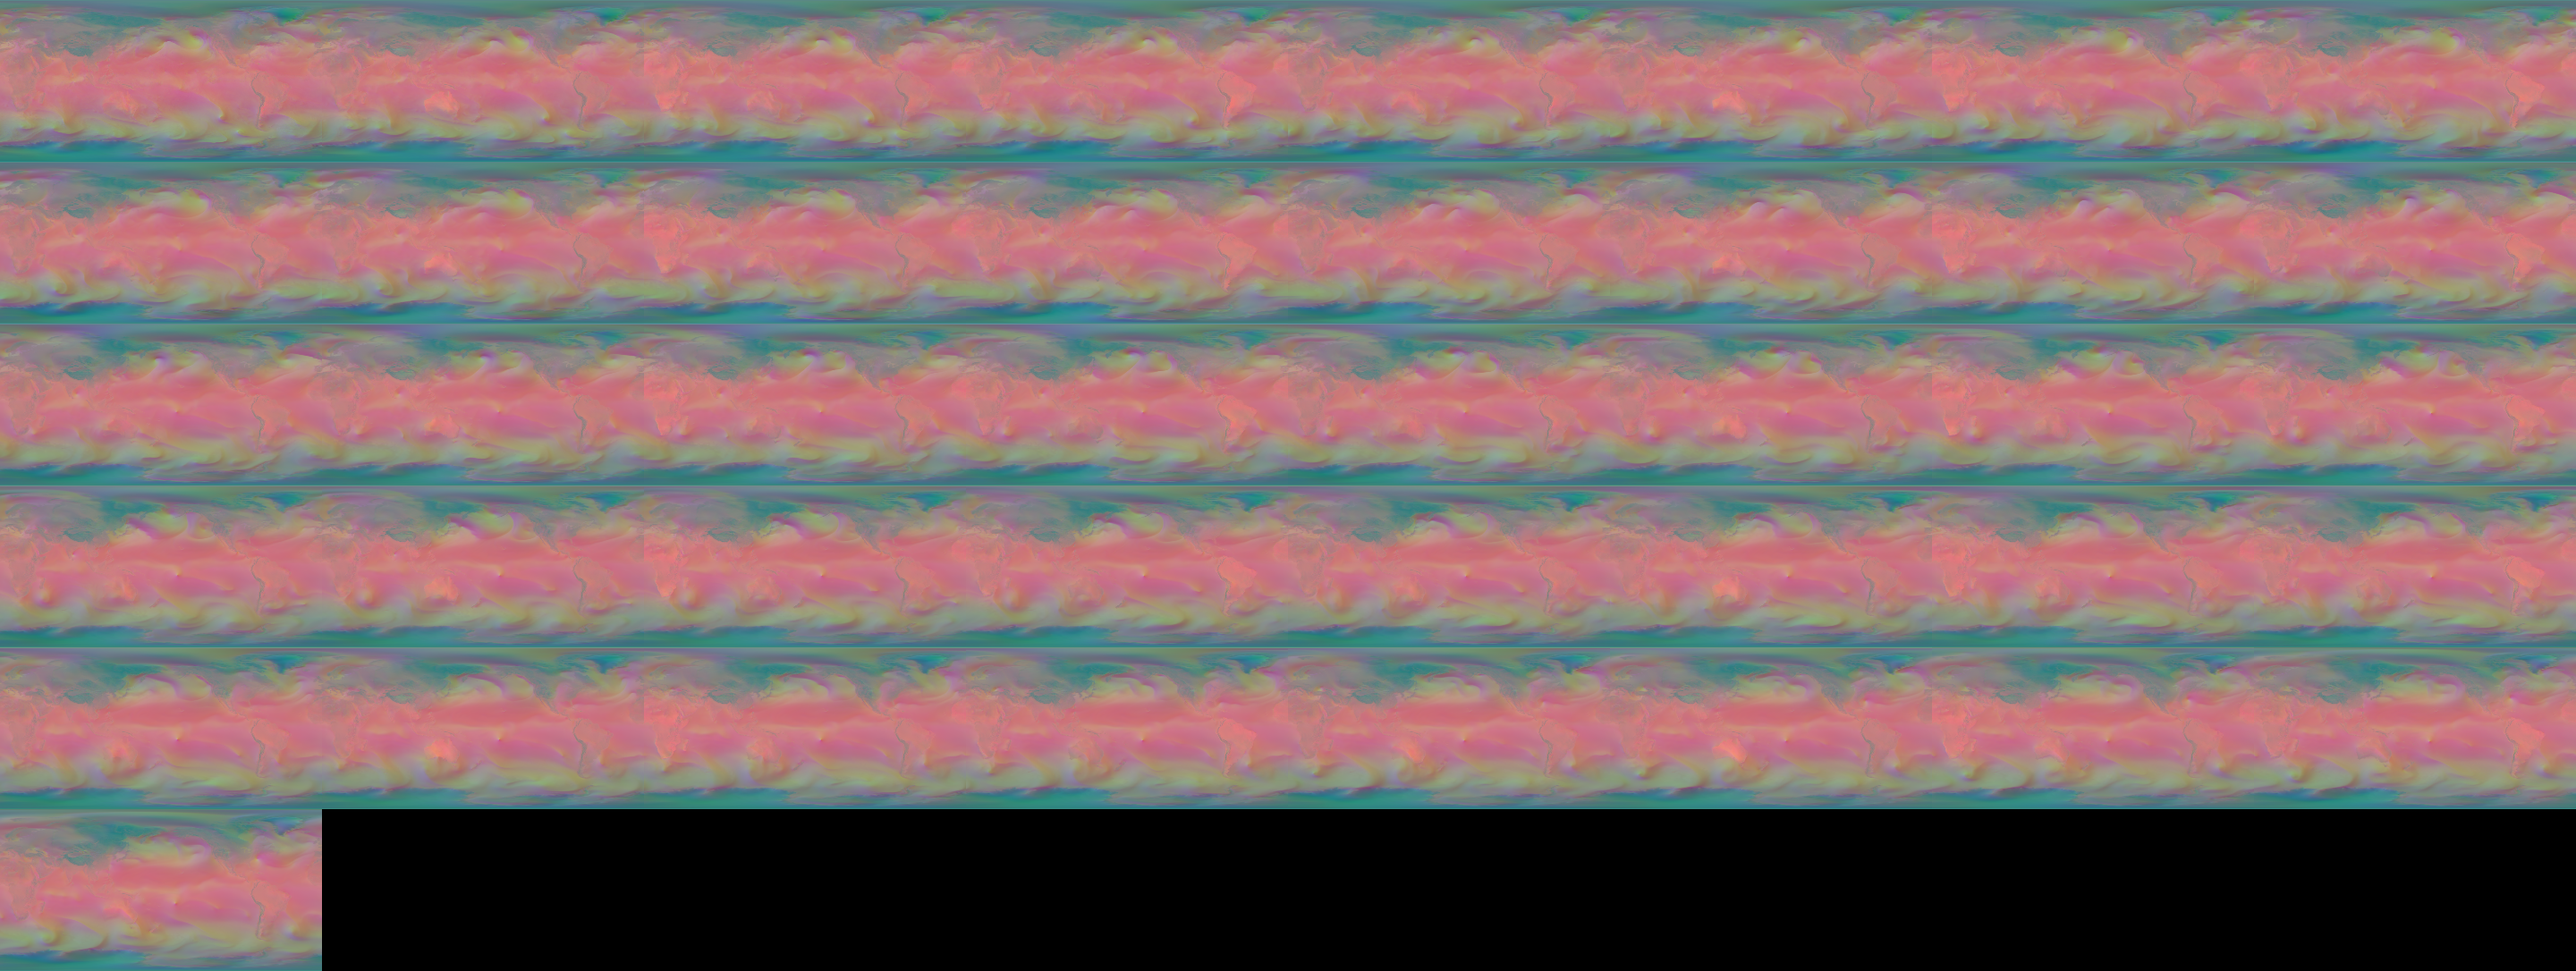
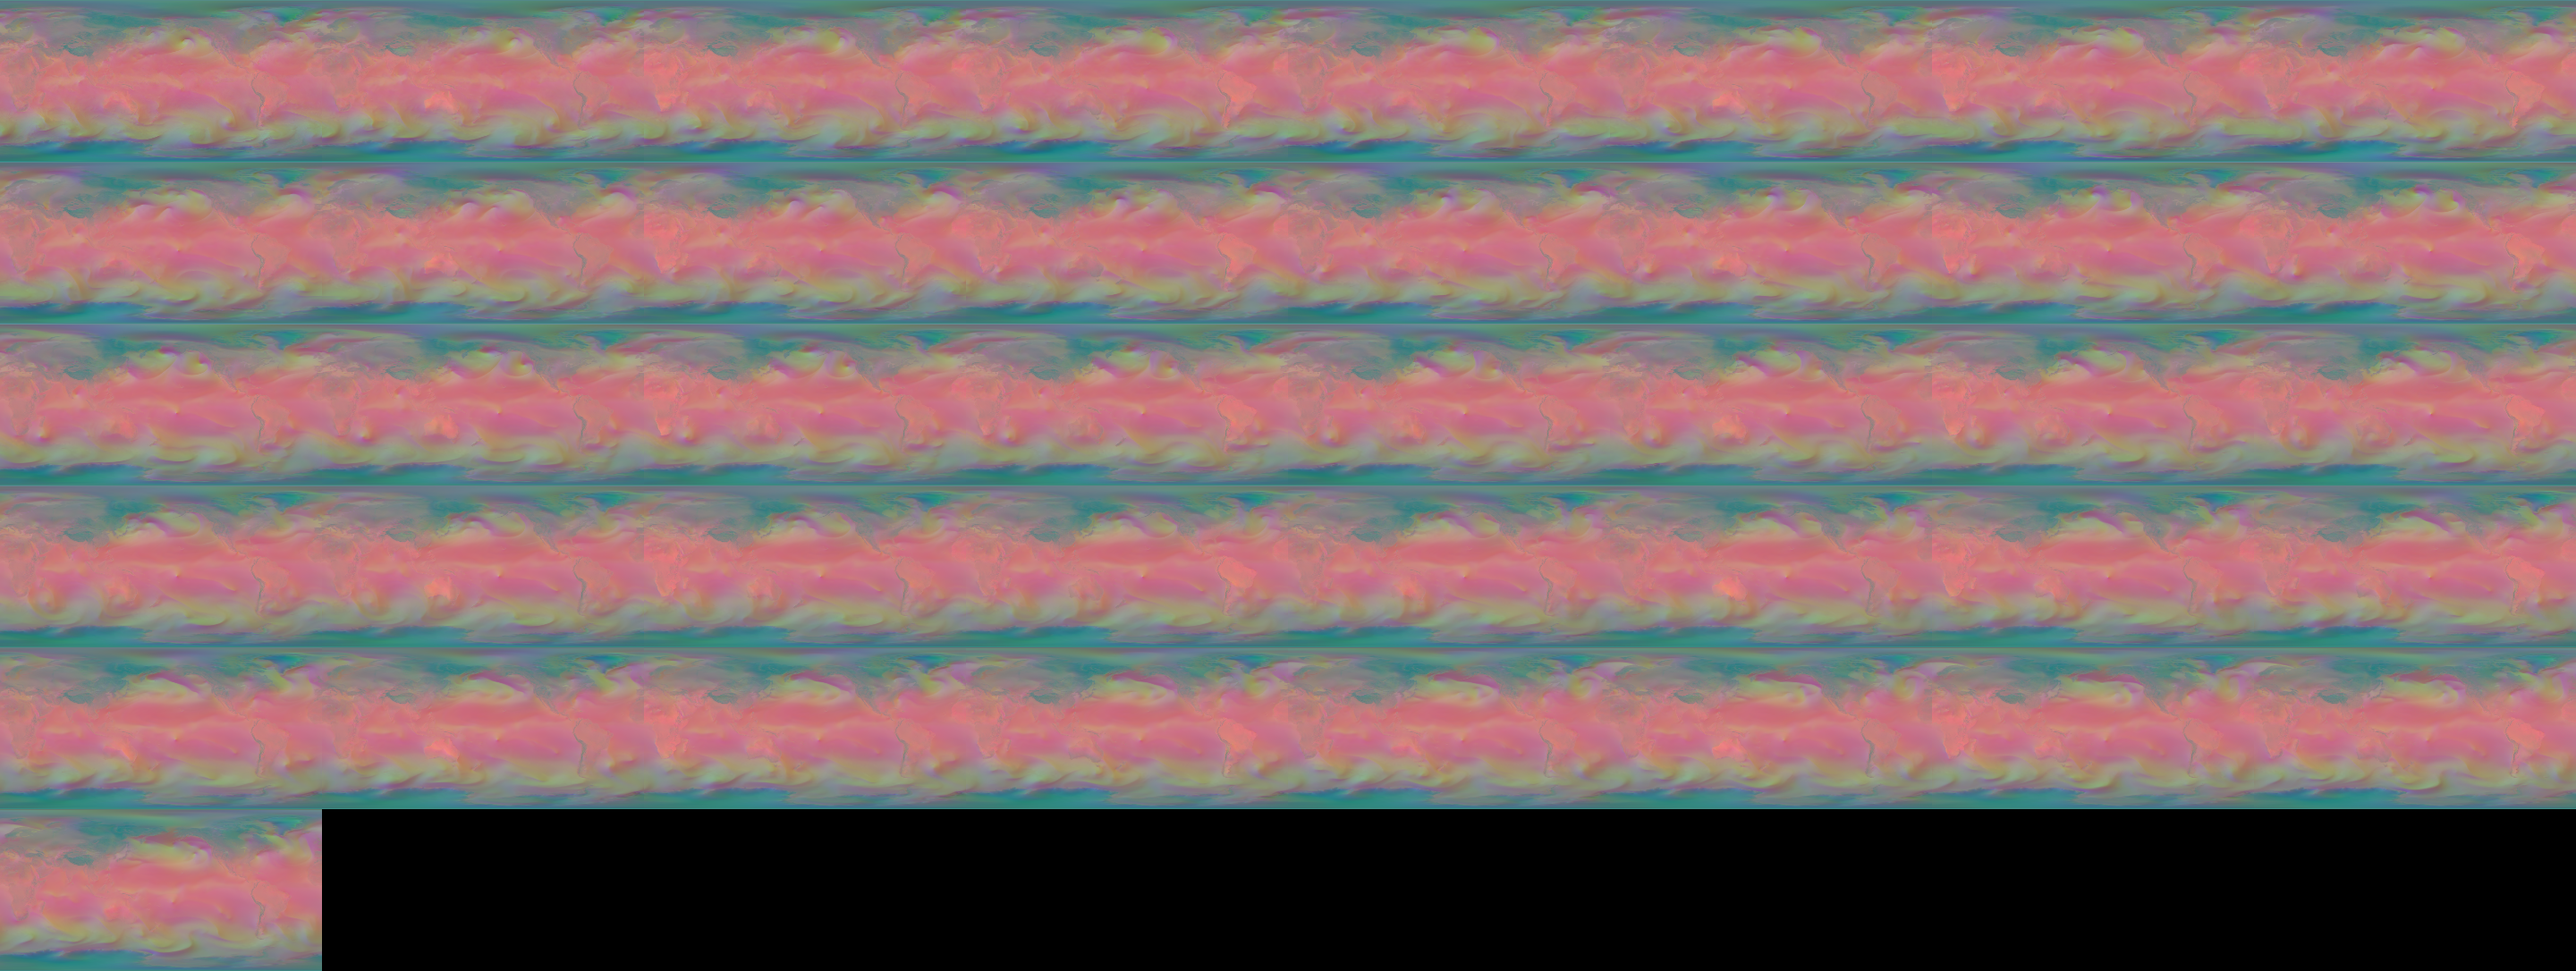
FIAB Globe: AIFS Single 14 Nov 2026 00 UTC
Claude-Session: https://claude.ai/code/session_01Mm7KmM24xqhNk2YDRzXdRt

diff --git a/FIAB/Globe/index.html b/FIAB/Globe/index.html
@@ -97,7 +97,7 @@ body.bare #time{left:auto;right:16px;max-width:none;width:auto}
   <div id="ends"><span id="t0"></span><span>hourly frames interpolated from 6-hourly model output</span><span id="t1"></span></div>
 </div>
 
-<script type="module" src="globe.js?v=202611130633"></script>
+<script type="module" src="globe.js?v=202611140631"></script>
 <script src="../brand.js?v=202611060913" data-pos="tc" defer></script>
 </body>
 </html>
